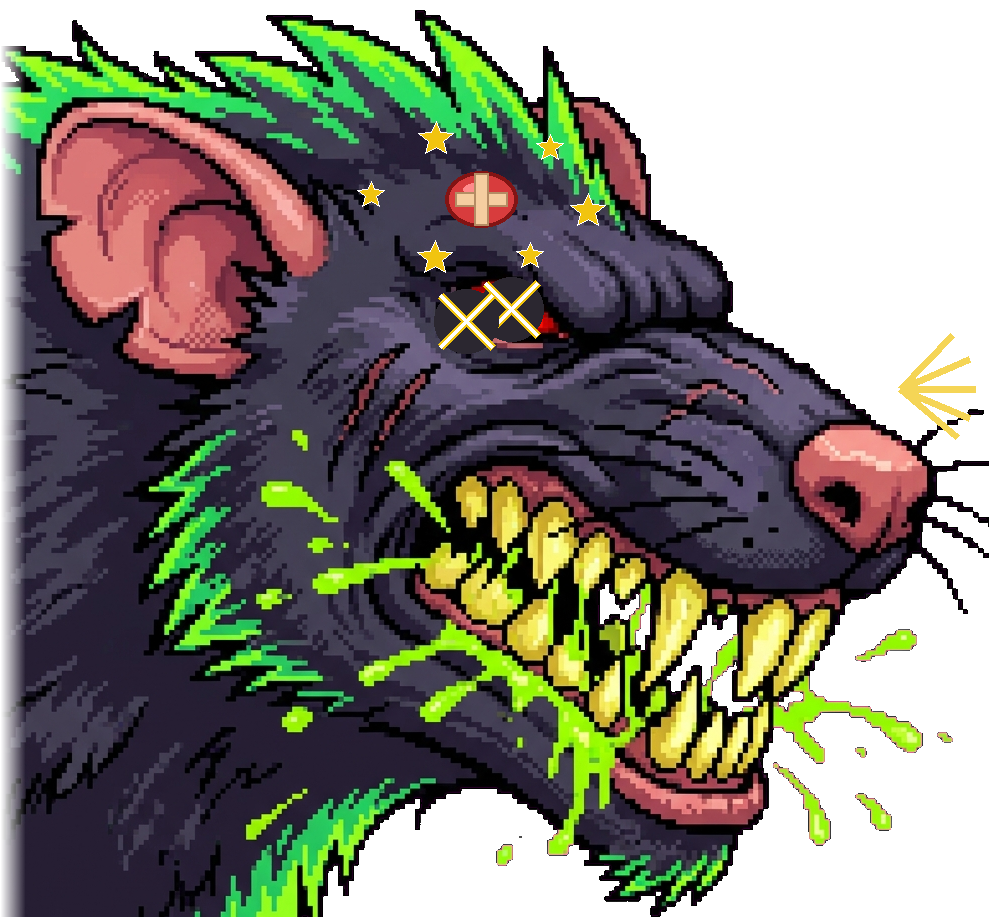
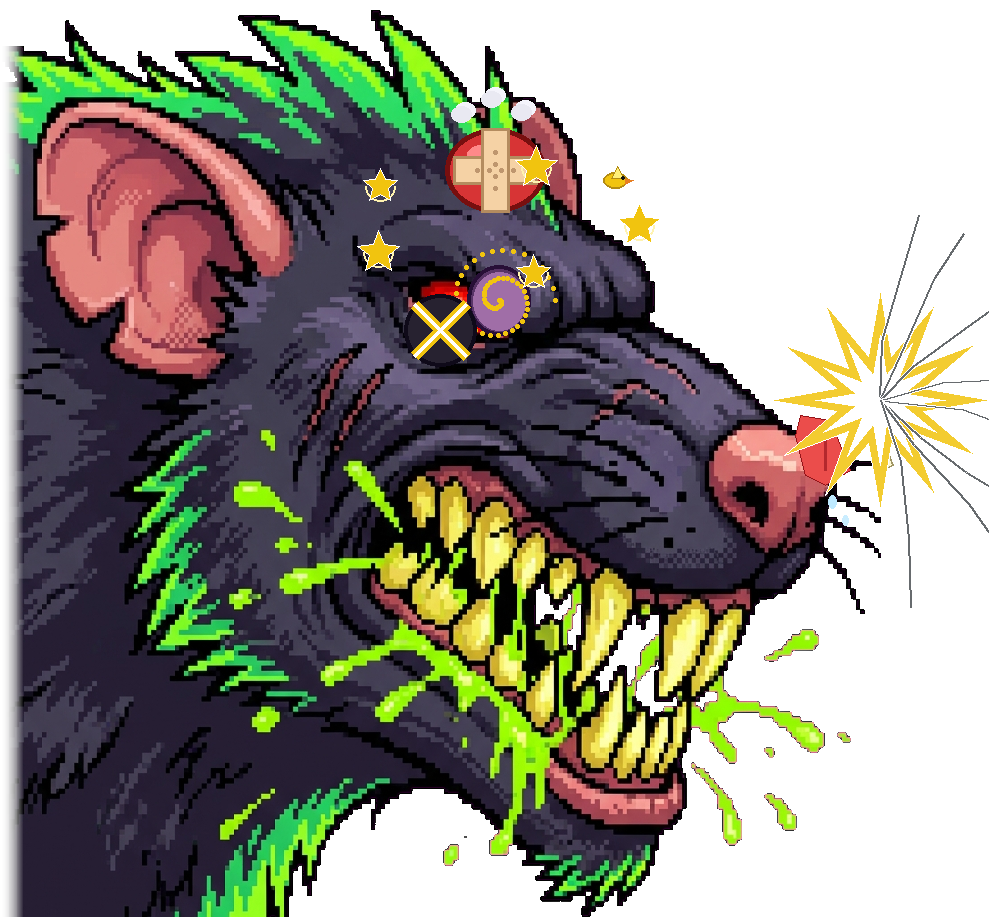
feat(stage3): recalibrar tiempo de aviso a 50m (+2s de espera), redisenar viaducto soterrado elaborado y crear sprite dedicado de choque e impacto de la rata colosal

diff --git a/game.js b/game.js
@@ -4177,7 +4177,7 @@ class MedellinGame {
         },
         {
           id: '50m',
-          triggerTime: 38.7, // ~2.6 segundos después de 1 km
+          triggerTime: 40.7, // +4.6 segundos (2 segundos más de espera tras 1 km)
           spriteKey: 'sign_soterrado_50m',
           title: 'SOTERRADO A 50 M',
           subtext: '¡ENTRADA INMINENTE!',
@@ -4194,11 +4194,11 @@ class MedellinGame {
     // Sistema del Clímax: Ingreso al Soterrado y Choque de la Rata Mutante
     this.canal.climax = {
       state: 'none',          // 'none', 'approaching', 'entered', 'crashed', 'victory'
-      triggerTime: 41.5,      // ~2.8s tras la señal de 50 m
+      triggerTime: 43.5,      // ~2.8s tras la señal de 50 m (con 40.7s para el aviso de 50 m)
       portalX: 1150,          // Comienza a la derecha en la rampa
-      portalY: -174,          // Nivel de la rampa del canal
-      portalW: 280,
-      portalH: 240,
+      portalY: -190,          // Nivel alineado de la rampa del canal
+      portalW: 320,           // Viaducto elaborado
+      portalH: 260,
       hitstopTimer: 0,
       victoryTimer: 0,
       ratCrashed: false,

diff --git a/index.html b/index.html
@@ -4,7 +4,7 @@
   <meta charset="UTF-8">
   <meta name="viewport" content="width=device-width, initial-scale=1.0, maximum-scale=1.0, user-scalable=no, viewport-fit=cover">
   <title>Aventura en Medellín: La Villa del Aburrá - Game Boy Color Edition</title>
-  <link rel="stylesheet" href="style.css?v=1793512300">
+  <link rel="stylesheet" href="style.css?v=1793512400">
 </head>
 <body>
 
@@ -131,9 +131,9 @@
   </div>
 
   <!-- Scripts del juego -->
-  <script src="audio.js?v=1793512300"></script>
-  <script src="sprites.js?v=1793512300"></script>
-  <script src="game.js?v=1793512300"></script>
+  <script src="audio.js?v=1793512400"></script>
+  <script src="sprites.js?v=1793512400"></script>
+  <script src="game.js?v=1793512400"></script>
 
   <script>
     // Selector de niveles interactivo con estado activo

diff --git a/sprites.js b/sprites.js
@@ -275,7 +275,7 @@ class SpriteManager {
 
     const keys = Object.keys(assetList);
     this.totalImages = keys.length;
-    const assetVersion = 'v1.6.0';
+    const assetVersion = 'v1.6.1';
 
     keys.forEach(key => {
       const img = new Image();

diff --git a/GUION.md b/GUION.md
@@ -379,7 +379,7 @@ Música: "Medellín Drift 300 KM/H" (Eurobeat / D&B acelerado a 160 BPM con pito
   - **Subtexto:** `AUTOPISTA SUR`
 - **HUD FLOTANTE:** `🚦 SOTERRADO A 1 KM` (Color rojo de advertencia).
 
-#### 🚨 Aviso 5: Alerta Crítica (Segundo 38.7 | ~2.6s después | Velocidad: ~300 km/h)
+#### 🚨 Aviso 5: Alerta Crítica (Segundo 40.7 | 4.6s después / +2s de espera | Velocidad: ~300 km/h)
 - **SFX:** Sirena vial intermitente.
 - **GRÁFICO:** Señal cuadrada de emergencia con **balizas ámbar intermitentes** en las esquinas:
   - **Texto Superior:** `SOTERRADO A 50 M`
@@ -391,7 +391,7 @@ Música: "Medellín Drift 300 KM/H" (Eurobeat / D&B acelerado a 160 BPM con pito
 ### Escena 3.5: El Clímax — La Boca del Soterrado y el Choque Fatal de la Rata
 *(Diseño narrativo del desenlace final del Nivel 3).*
 
-- **SEGUNDO 41.5 – 43.5 (VELOCIDAD MÁXIMA: 300 KM/H):**
+- **SEGUNDO 43.5 – 45.5 (VELOCIDAD MÁXIMA: 300 KM/H):**
   - Al fondo de la rampa diagonal aparece de repente la gigantesca estructura de ingeniería civil paisa: **el Viaducto Soterrado de la Autopista Sur**.
   - El soterrado es un túnel de concreto reforzado de gálibo estándar ($4.5\text{ metros}$ de altura), con luces fluorescentes amarillas en el interior y gruesos pilares de concreto macizo en la entrada.
   - Para un ser humano en patines o zapatillas, el orificio es suficiente para entrar deslizándose a ras de piso. Para la Rata Mutante, que mide más de 6 metros de envergadura, el túnel es una trampa mortal sin escapatoria.
